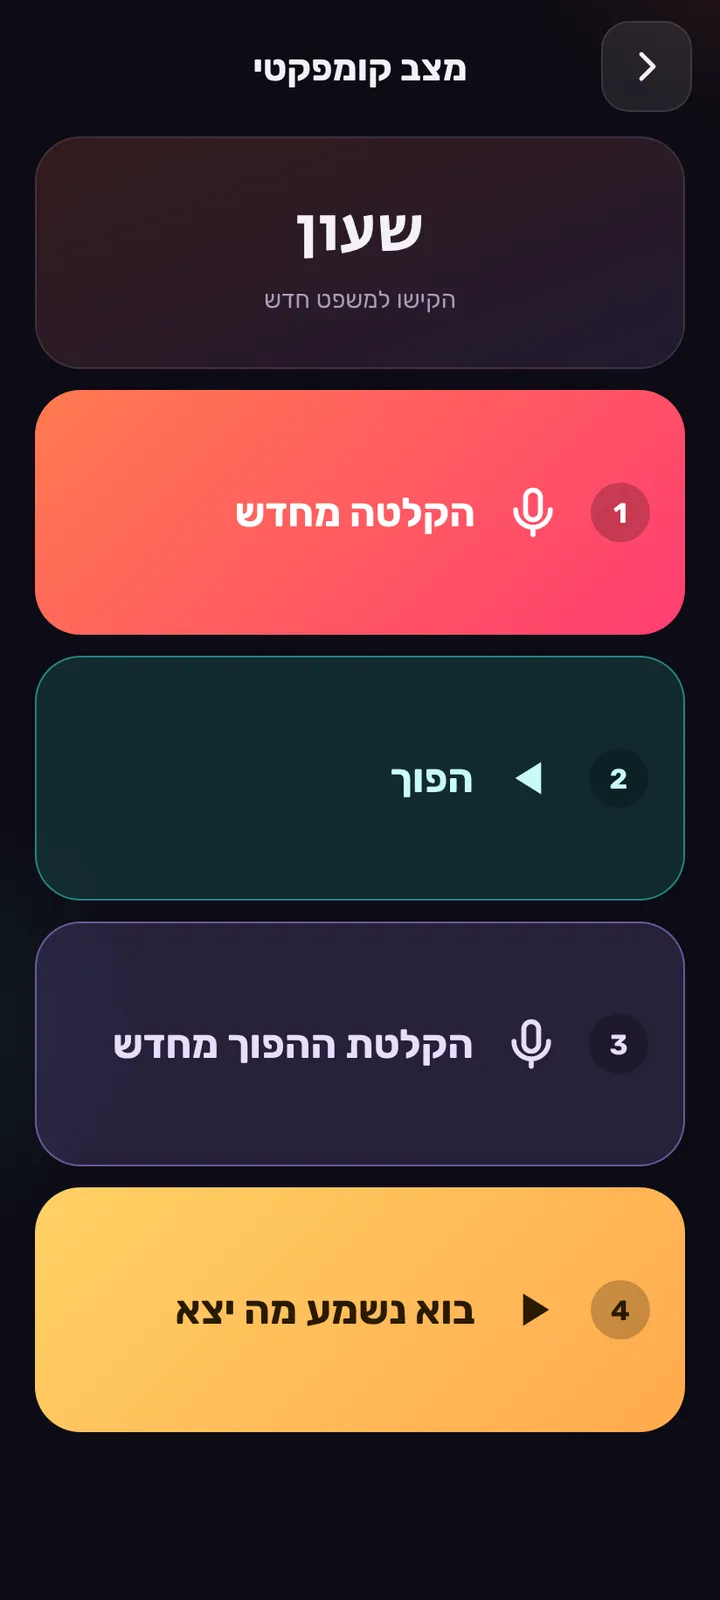
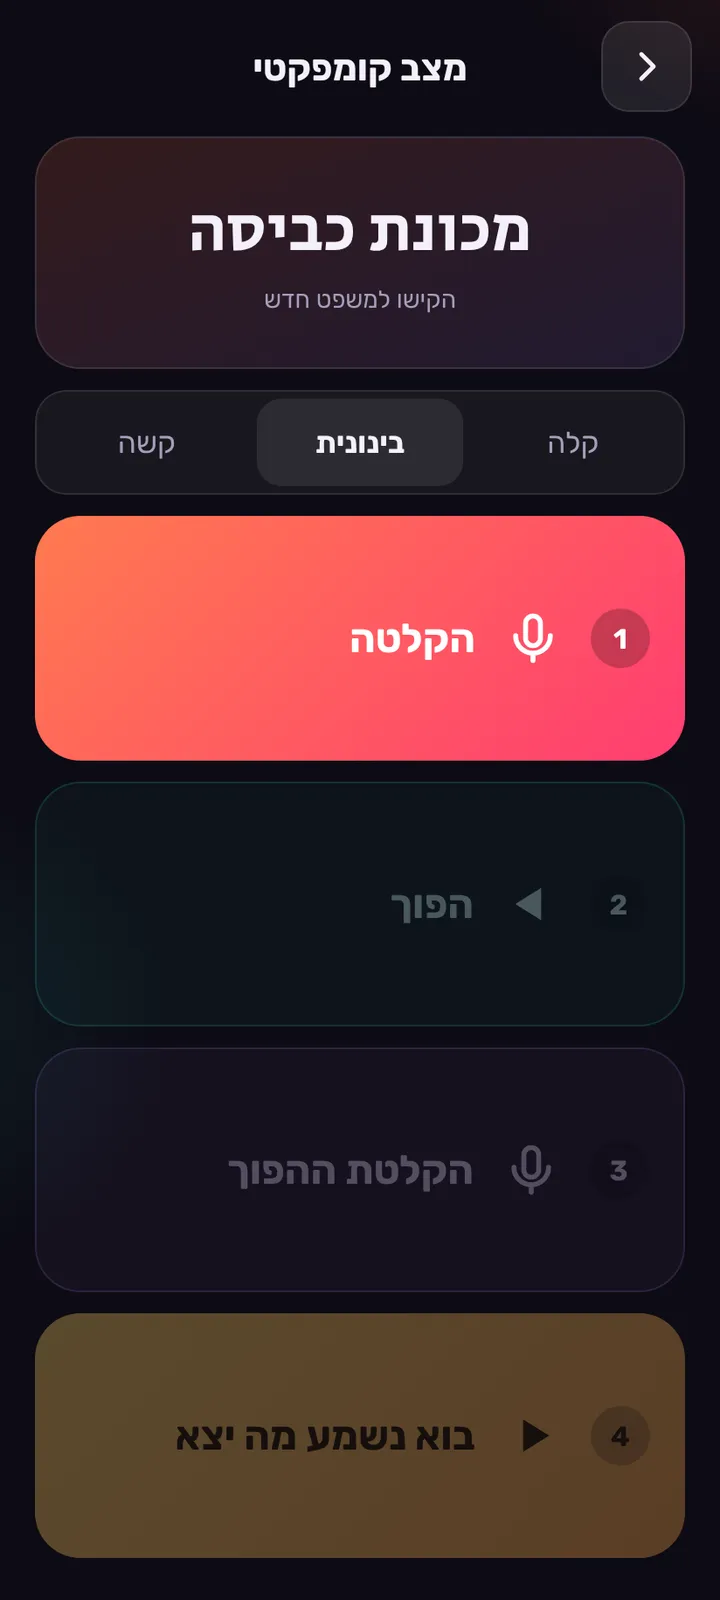
Update achoranit to 2.5 (compact mode levels)
Claude-Session: https://claude.ai/code/session_014tH18ypoXhNeT6TV5LynfV

diff --git a/web/achoranit/index.html b/web/achoranit/index.html
@@ -138,6 +138,7 @@ button{cursor:pointer;user-select:none;-webkit-user-select:none;touch-action:man
 .box{width:100%;display:flex;flex-direction:column;gap:12px;padding:16px;border-radius:22px;background:var(--surface);border:1px solid var(--line);text-align:center}
 .hidden{display:none !important}
 .compact-body{gap:12px;padding-bottom:20px}
+#cLevels{flex:none}
 .phrase-card.tap{display:block;color:inherit;font:inherit;text-align:center;cursor:pointer;flex:none}
 .phrase-card.tap small{display:block;margin-top:8px;color:var(--muted);font-size:14px}
 .cbtn{flex:1 1 0;min-height:78px;max-height:140px;width:100%;display:flex;align-items:center;gap:16px;padding:0 20px;border-radius:26px;
@@ -411,6 +412,7 @@ button{cursor:pointer;user-select:none;-webkit-user-select:none;touch-action:man
     <header class="bar"><button class="icon-btn" data-back aria-label="חזרה"><svg><use href="#i-back"/></svg></button><h2>מצב קומפקטי</h2><span class="pill"></span></header>
     <div class="body compact-body">
       <button class="phrase-card tap" id="cPhrase" aria-label="משפט חדש"><p id="cPhraseTxt"></p><small>הקישו למשפט חדש</small></button>
+      <div class="seg full" id="cLevels"><button data-lv="easy">קלה</button><button data-lv="medium">בינונית</button><button data-lv="hard">קשה</button></div>
       <button class="cbtn c-rec" id="cRec"><span class="n">1</span><svg><use href="#i-mic"/></svg><span class="t">הקלטה</span></button>
       <button class="cbtn c-rev" id="cRev"><span class="n">2</span><svg><use href="#i-rev"/></svg><span class="t">הפוך</span></button>
       <button class="cbtn c-imit" id="cImit"><span class="n">3</span><svg><use href="#i-mic"/></svg><span class="t">הקלטת ההפוך</span></button>
@@ -1083,7 +1085,7 @@ function render() {
     li.append(nm, x); ul.appendChild(li);
   });
   $('#pempty').classList.toggle('hidden', players.length > 0);
-  $$('#soloLevels [data-lv]').forEach(b => b.classList.toggle('on', b.dataset.lv === level));
+  $$('#soloLevels [data-lv], #cLevels [data-lv]').forEach(b => b.classList.toggle('on', b.dataset.lv === level));
   $('#roundsOut').textContent = rounds;
   $('#rMinus').disabled = rounds <= 1; $('#rPlus').disabled = rounds >= 10;
   $('#roundsHint').textContent = players.length >= 2
@@ -1211,7 +1213,7 @@ document.addEventListener('click', e => {
   if (e.target.closest('[data-back]')) { back(); return; }
   if (e.target.closest('[data-close]')) { closeModals(); return; }
   const lv = e.target.closest('[data-lv]');
-  if (lv) { level = lv.dataset.lv; store.set('level', level); if (current === 'secret') newPhrase(); render(); return; }
+  if (lv) { level = lv.dataset.lv; store.set('level', level); if (current === 'secret') newPhrase(); if (current === 'compact' && !rec) { resetRound(); newPhrase(); } render(); return; }
   const act = e.target.closest('[data-act]');
   if (act) { if (act.dataset.act === 'compare') compare(); else shareResult(); return; }
   const sp = e.target.closest('[data-speed]');
